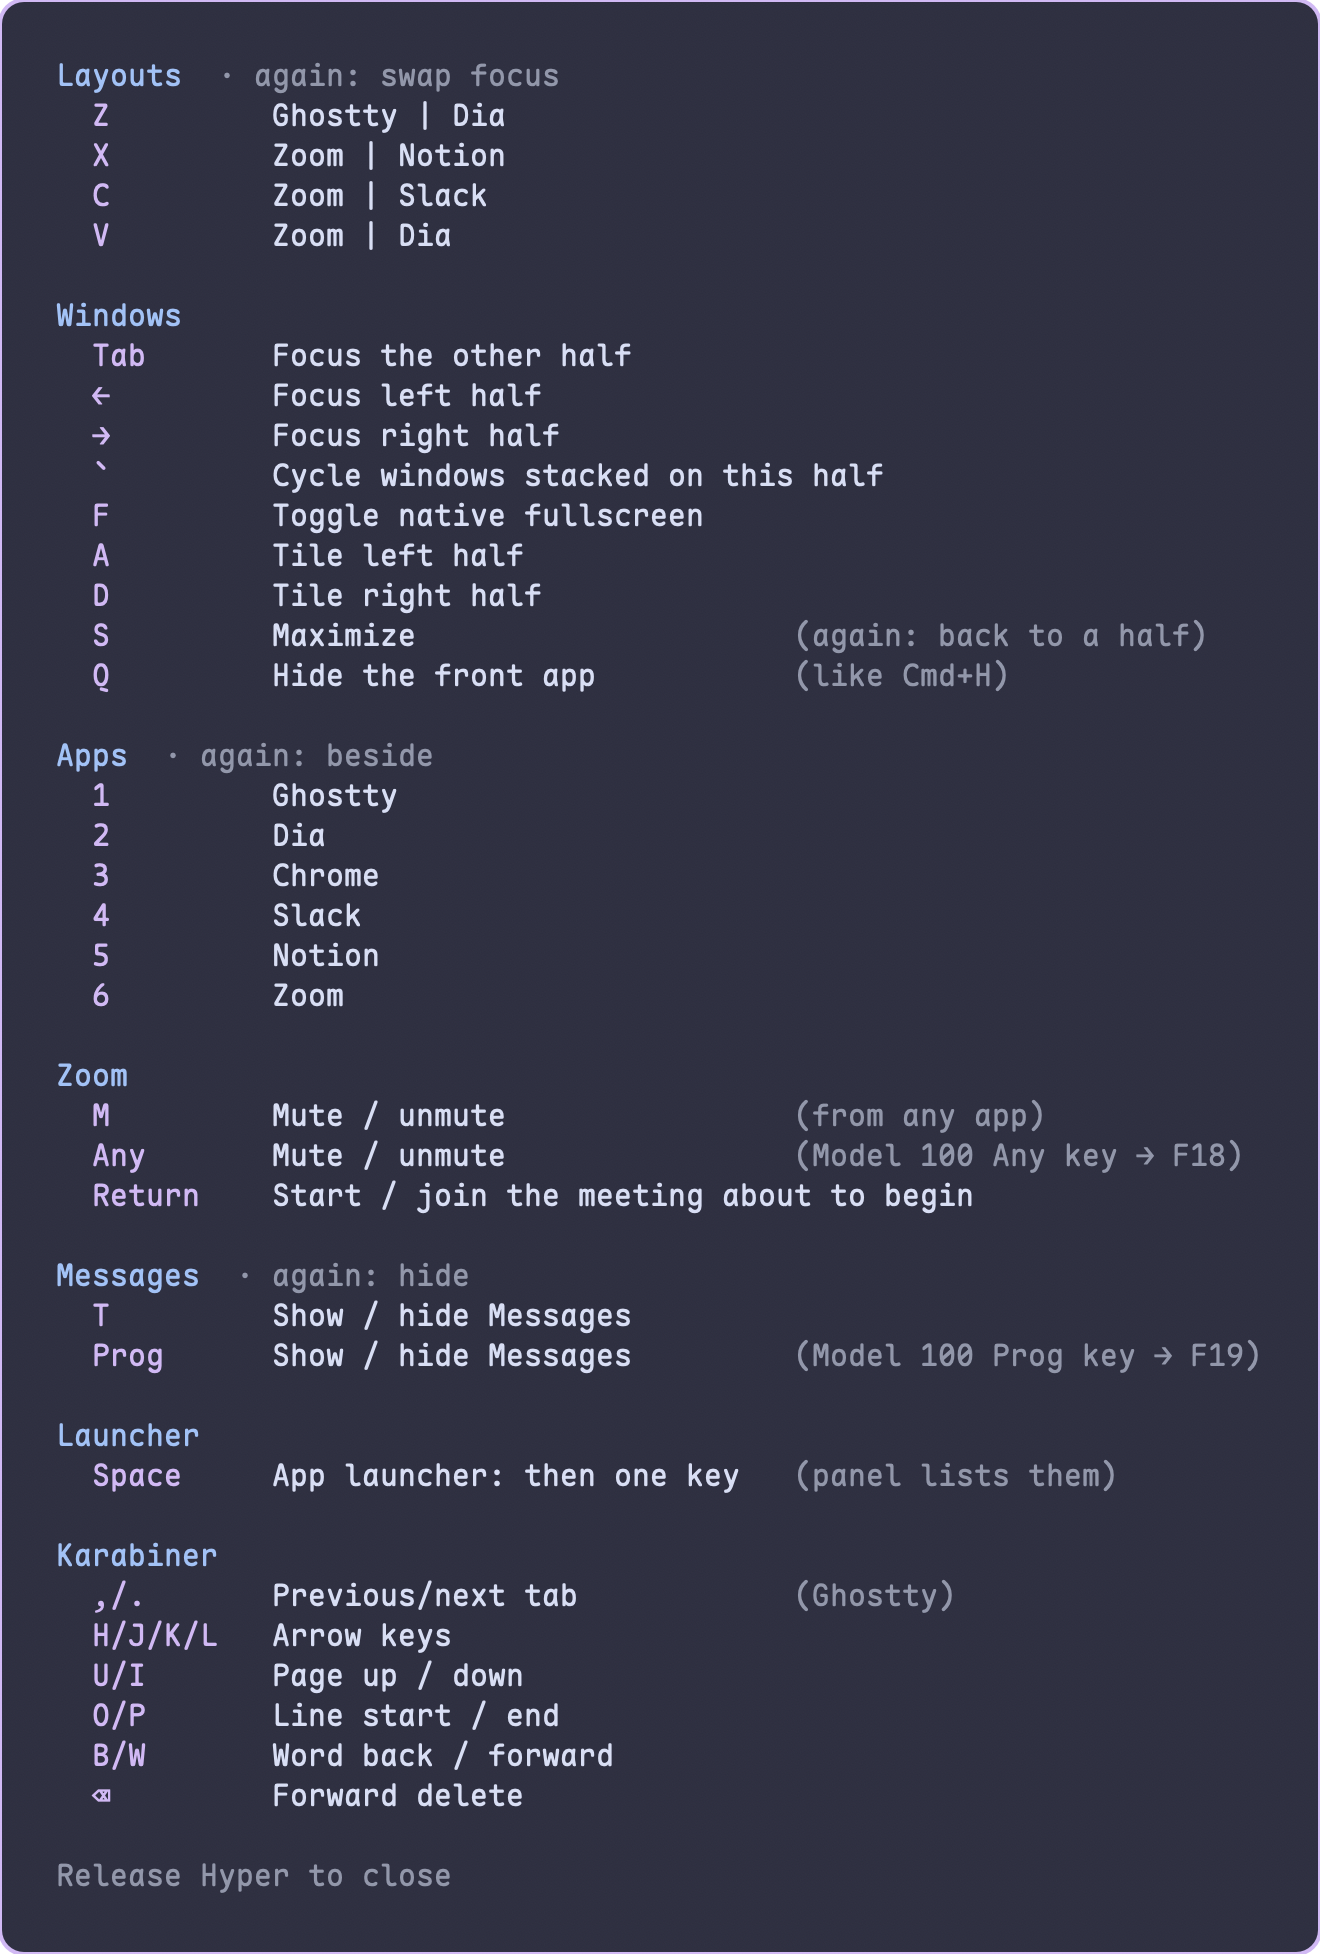
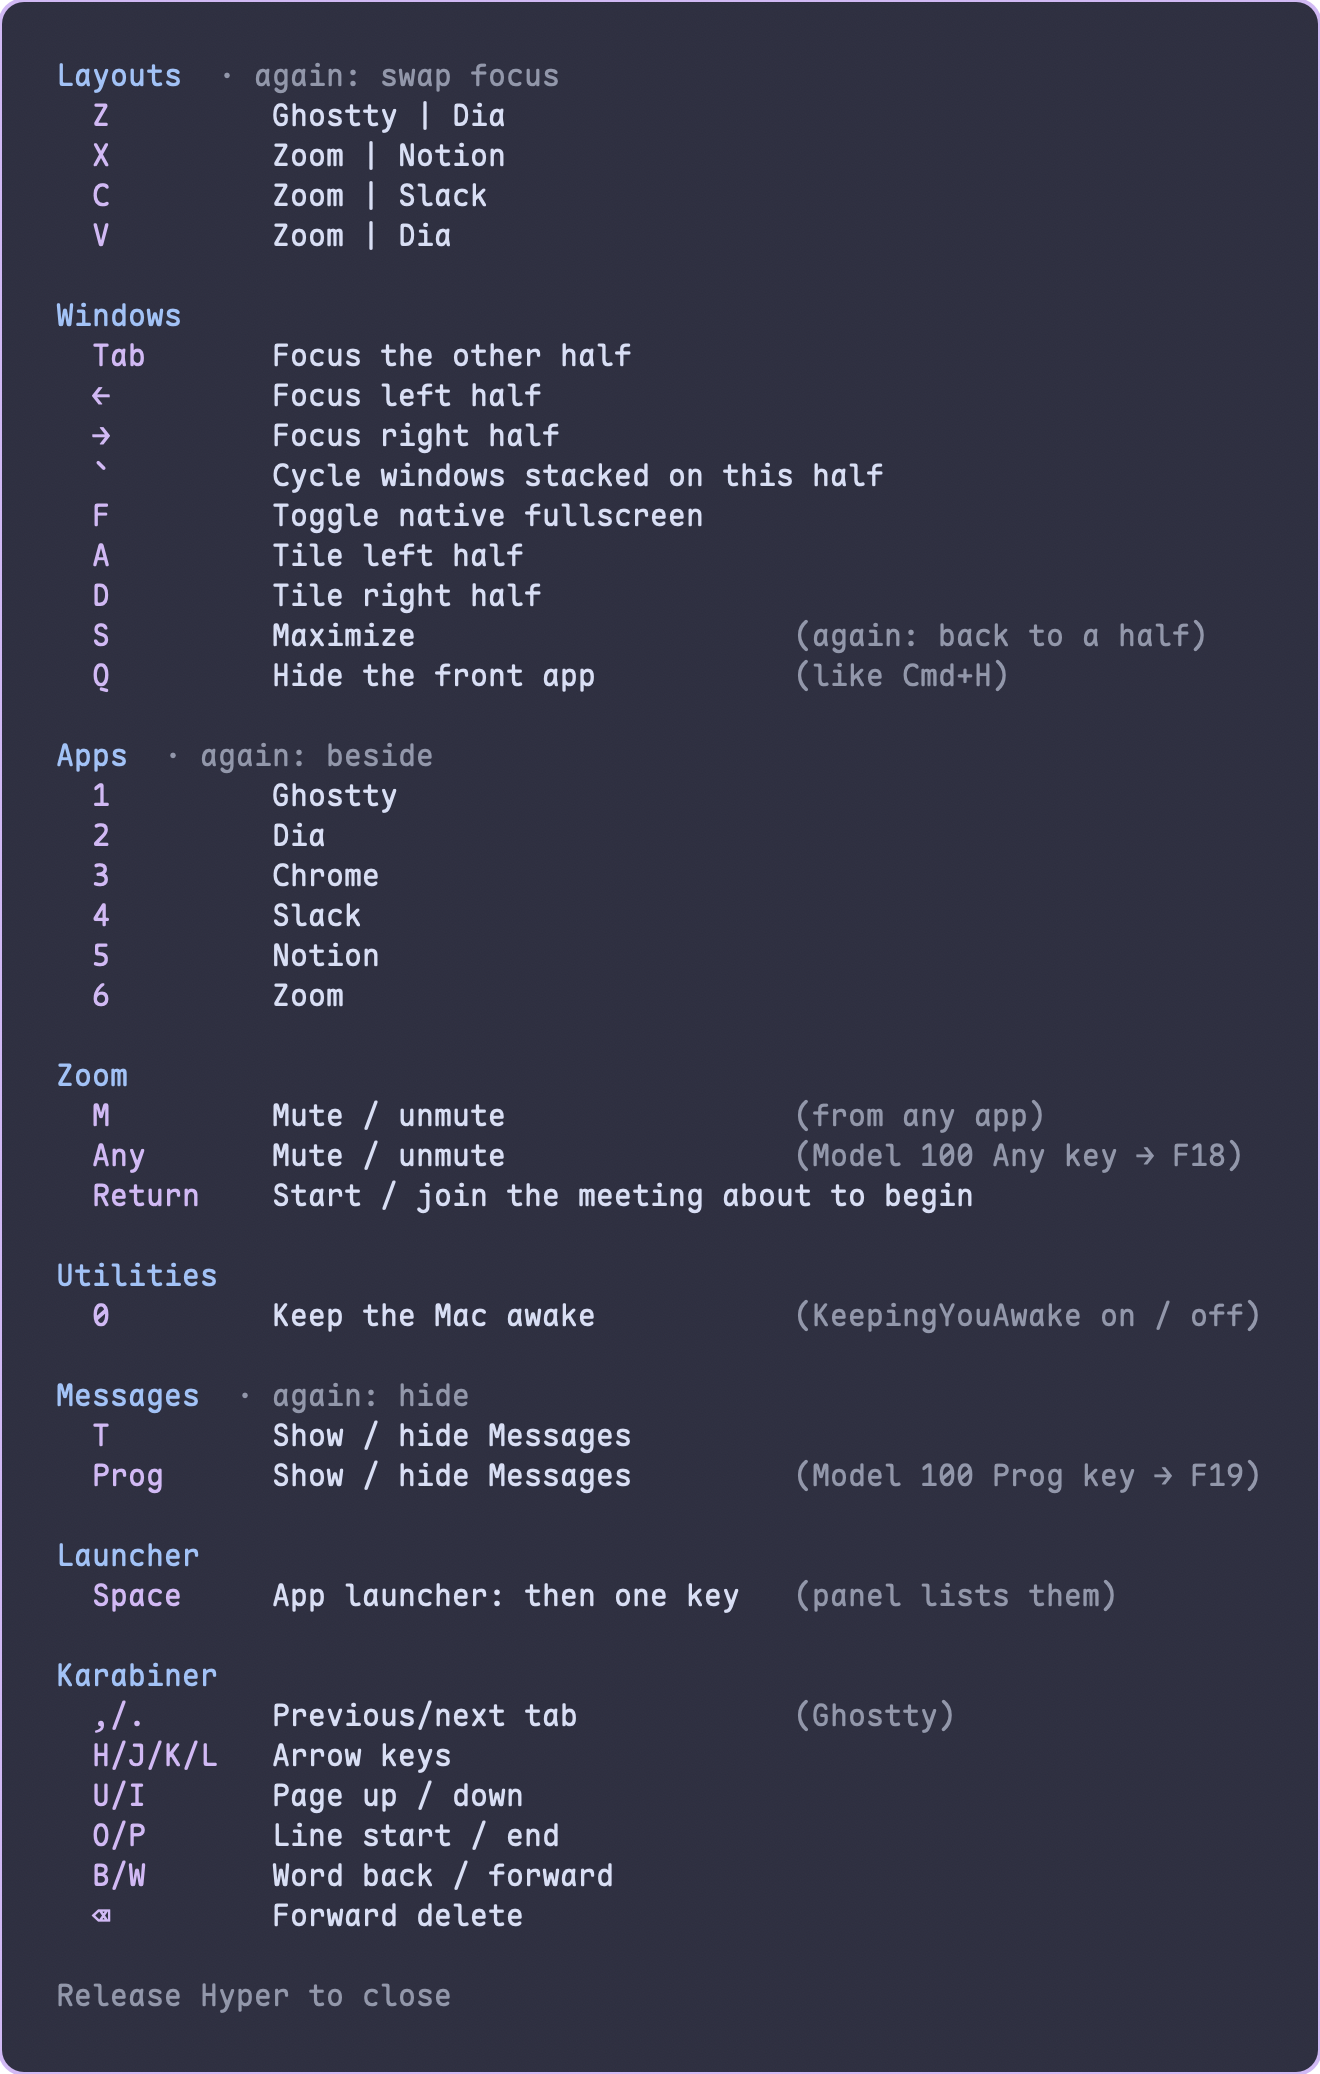
Hammerspoon: Hyper+0 toggles KeepingYouAwake
Keeping the Mac awake meant finding KeepingYouAwake's icon, which lives in
Thaw's hidden section. Hyper+0 toggles it through its keepingyouawake:///
toggle URL and shows which way it went — its state is otherwise invisible;
while active it runs a caffeinate child process, which is what's checked.
New "Utilities" cheatsheet section, yellow on the Model 100 (free since the
Hammerspoon section went away); its LEDs follow the next time it's
connected. Tested: Hyper+0 twice — off → on → off.

Claude-Session: https://claude.ai/code/session_01GPLQFH3ZSRtaBoie4R85Q1

diff --git a/GUIDE.md b/GUIDE.md
@@ -849,6 +849,7 @@ brightness 200/255):
   | 1–6 — apps, each in its own color | Ghostty mauve (its Catppuccin accent), Dia yellow, Chrome green, Slack pink, Notion white, Zoom blue |
   | Z X C V — layouts · ` Tab Q A S D F, left thumb Cmd Shift — windows | mauve · blue |
   | T Messages · M Return — Zoom mute, join | teal · red |
+  | 0 — keep awake | yellow |
   | Space — launcher | green (like the app keys) |
 
 - **Function** / **Numpad** — only their own keys lit, by kind: F-keys pink,
@@ -1160,6 +1161,16 @@ left edge and run off the screen. It's the one Hyper key
 where "again" hides instead of putting the app beside the last window. Pin the conversations you reply to
 most, so Messages opens on them, and allow those people through your work
 Focus (System Settings → Focus → People).
+
+### Keep awake (Hammerspoon)
+
+| Shortcut | Action |
+|---|---|
+| Hyper + 0 | Toggle KeepingYouAwake — the Mac and display stay awake while on |
+
+It goes through KeepingYouAwake's `keepingyouawake:///toggle` URL, so its menu
+bar icon can stay hidden in Thaw. The alert says which way it went: while on,
+KeepingYouAwake runs a `caffeinate` process, which is what's checked.
 
 ### Reloading
 
